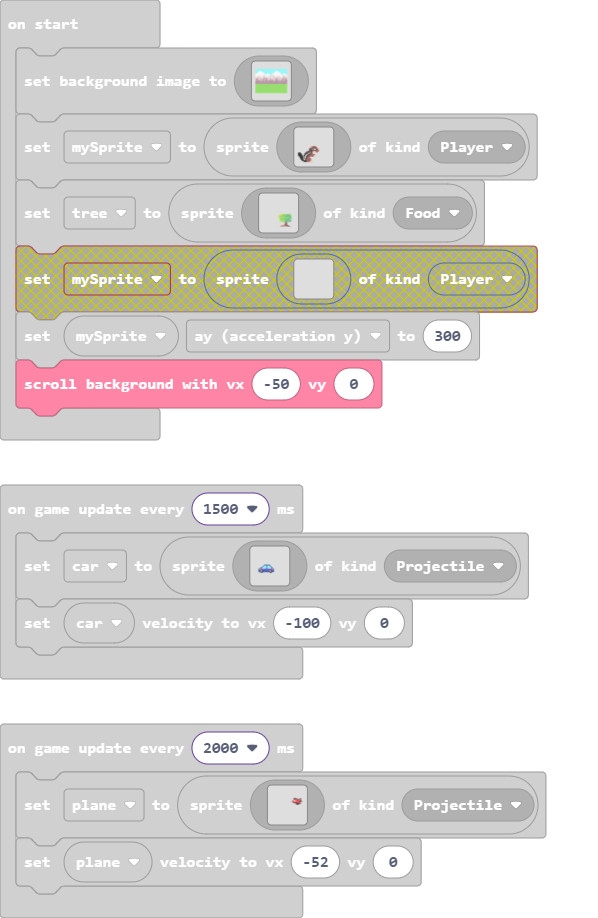
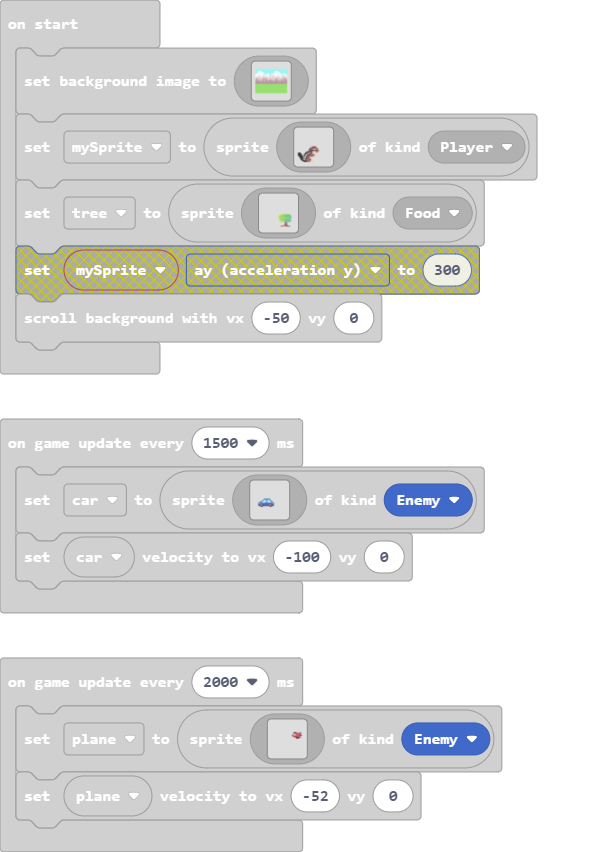
Update main.blocks, main.ts

diff --git a/main.ts b/main.ts
@@ -296,7 +296,6 @@ let tree = sprites.create(img`
     ................................................................................
     ................................................................................
     `, SpriteKind.Food)
-mySprite.ay = 300
 scroller.scrollBackgroundWithSpeed(-50, 0)
 game.onUpdateInterval(2000, function () {
     plane = sprites.create(img`
@@ -380,10 +379,10 @@ game.onUpdateInterval(2000, function () {
         ................................................................................
         ................................................................................
         ................................................................................
-        `, SpriteKind.Projectile)
+        `, SpriteKind.Enemy)
     plane.setVelocity(-52, 0)
 })
 game.onUpdateInterval(1500, function () {
-    car = sprites.create(assets.image`Car`, SpriteKind.Projectile)
+    car = sprites.create(assets.image`Car`, SpriteKind.Enemy)
     car.setVelocity(-100, 0)
 })
